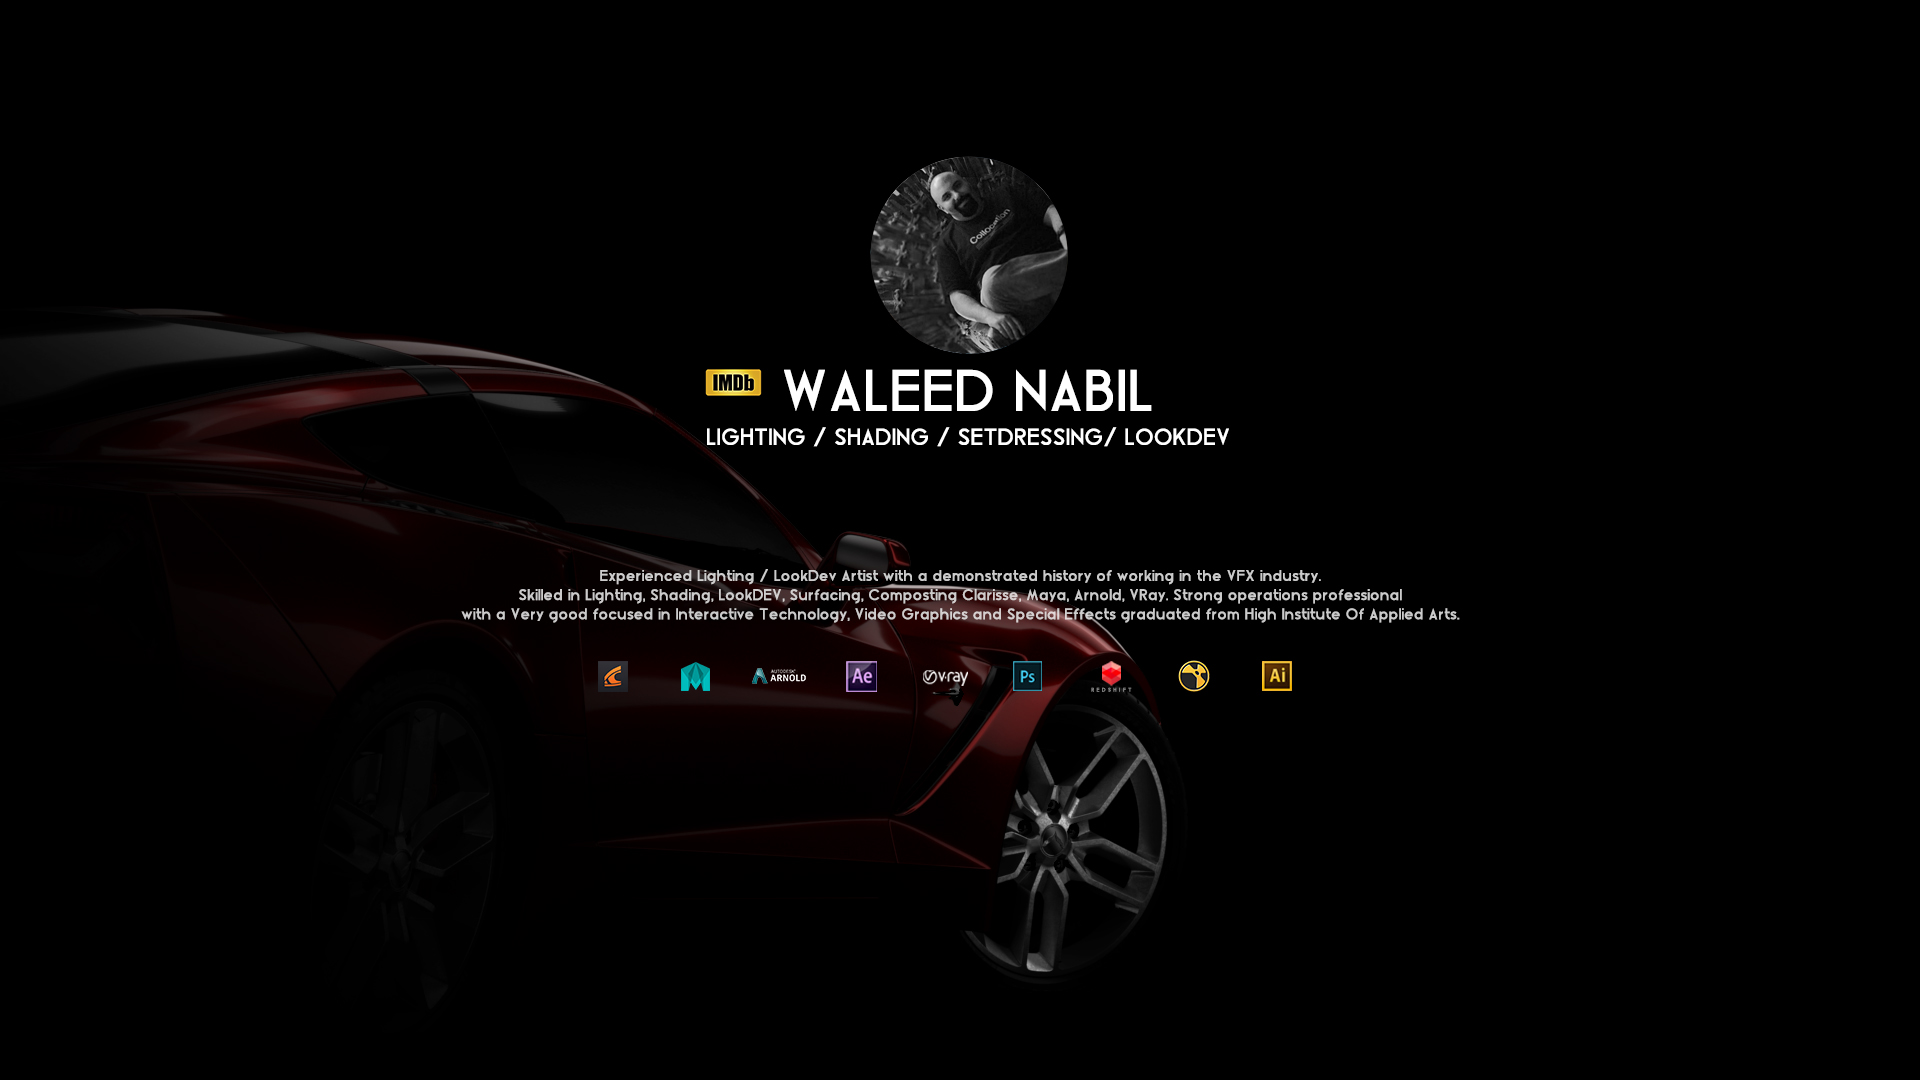
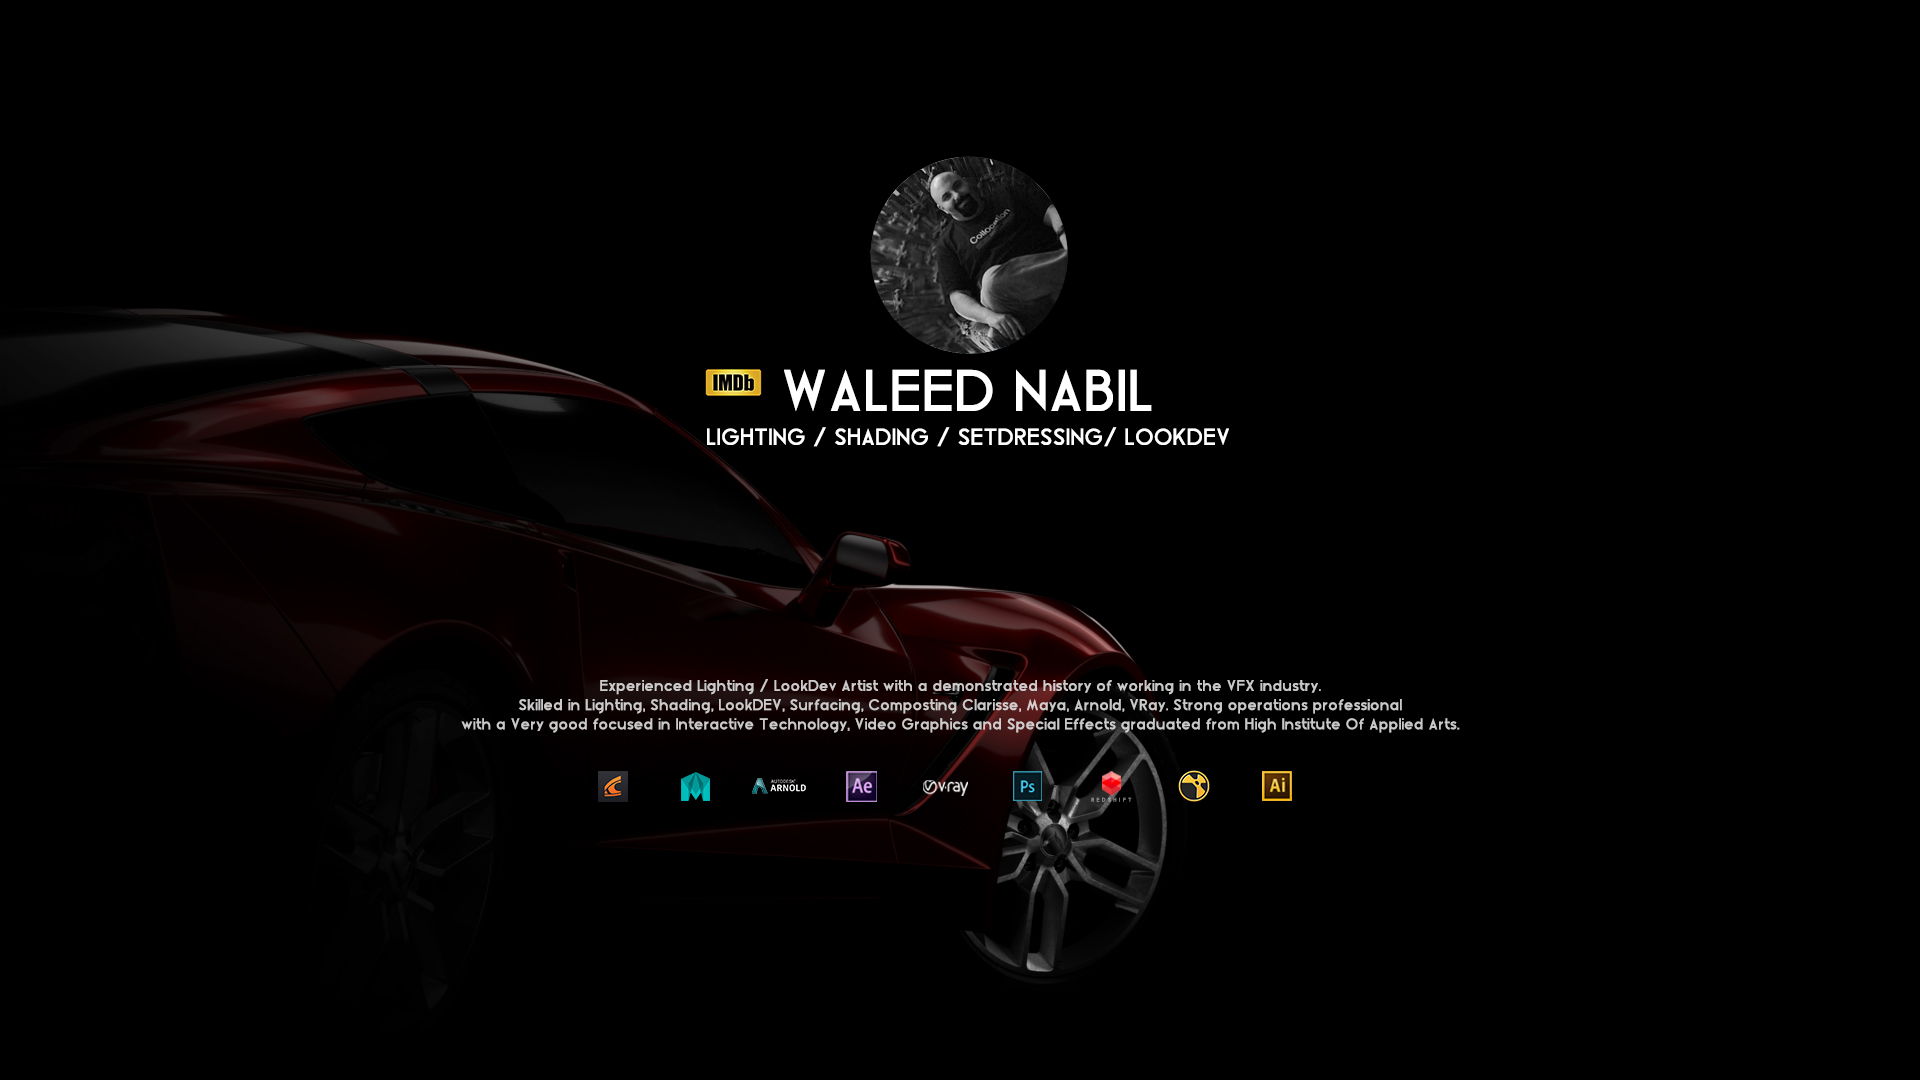
home btn

diff --git a/index.html b/index.html
@@ -241,8 +241,8 @@
                                 
 								<div class="tms-content">
 									<div class="tms-content-inner left left-on-mobile v-align-middle">
-										<div class="row">
-											<div class="column width-12">
+										<div class="row btn-place">
+											
 												
 												
                                                 <br>
@@ -251,19 +251,19 @@
                                                 <br>
                                                 <br>
                                                 <br>
-                                                <div id="btn-home">
+                                                
 												<div class="tms-caption"
 													 data-animate-in="preset:slideInUpShort;duration:1000ms;delay:400ms;"
 													 data-no-scale>
-														<a href="waleed_nabil_cv.pdf" class="tms-caption button medium text-small text-uppercase bkg-theme color-charcoal border-hover-white color-hover-white" data-offset="-80" target="_blank">DOWNLOAD RESUME</a>
+														<a href="waleed_nabil_cv.pdf" class="btn-home" data-offset="-80" target="_blank">DOWNLOAD RESUME</a>
 												</div>
 												<div class="tms-caption"
 													 data-animate-in="preset:slideInUpShort;duration:1000ms;delay:600ms;"
 													 data-no-scale>
-														<a href="Showreel.html" class="tms-caption button medium text-small text-uppercase bkg-theme color-charcoal border-hover-white color-hover-white" data-offset="-60">PLAY REEL</a>
+														<a href="Showreel.html" class="btn-home" data-offset="-60">PLAY REEL</a>
 												</div>
-                                                </div>
-											</div>
+                                                
+											
 										</div>
 									</div>
 								</div>

diff --git a/Aboutme.html b/Aboutme.html
@@ -225,8 +225,8 @@
                                                 -->
 												<div class="pull-left clear-float-on-mobile" >
                                                     
-													<a href="waleed_nabil_cv.pdf" class="button thick border-theme border-hover-theme color-theme color-hover-theme" target="_blank">Download Resume</a>
-													
+													<a href="waleed_nabil_cv.pdf" class="btn-about" target="_blank">Download Resume</a>
+												
 													<ul class="tms-caption social-list list-horizontal no-margin-left mb-40"
 														data-animate-in="preset:slideInUpShort;duration:1000ms;delay:400ms;">
 														<li><a href="https://www.imdb.com/name/nm8802074/" style="color:#f3ce13" target="_blank"><span class="iconify fa-2x" data-icon="cib:imdb" data-inline="false"></span></a>
@@ -245,7 +245,8 @@
                                                         <li><a href="https://www.linkedin.com/in/waleed-nabil-174713bb/" style="color:#0e76a8" target="_blank"><span class="iconify fa-2x" data-icon="cib:linkedin-in" data-inline="false"></span></a>
                                                         </li>
 													</ul>
-													<div class="clear"></div>
+                                                     
+													
 														
 												</div>
 											</div>

diff --git a/Showreel.html b/Showreel.html
@@ -246,14 +246,14 @@
 									<h1 class="title-xlarge no-padding-on-mobile text-uppercase lspacing-medium mb-10 weight-bold color-white">we make it happen</h1>
                                     -->
 									<div class="row">
-										<div class="column width-6 offset-3 weight-light">
+										<div class="column width-11 offset-3 weight-light">
 											<!--
                                             <p class="color-white text-large">We help you find the travel experience that you have always dreamed of and tailor it to your needs.</p>
 											-->
-                                            <a class="lightbox-link icon-circled icon-play medium border-white color-white color-hover-white bkg-hover-theme  text-line-vertical" data-lightbox-animation="fade" href="https://player.vimeo.com/video/375606604">
-
-                                            </a>
+                                            <iframe src="https://player.vimeo.com/video/375606604" allow="autoplay; fullscreen" allowfullscreen></iframe>
+                                                
 										</div>
+                                        <p>&copy; Waleed Nabil 2020.</p>
 									</div>
 								</div>
 							</div>

diff --git a/css/skin-resume.css b/css/skin-resume.css
@@ -240,6 +240,36 @@ a.animated-link:hover .text-line,
 	background-color: #27ccc0;
 }
 
+.btn-about{
+    transform: translate3d(0px, 0px, 0px) rotateX(0deg) rotateY(0deg) rotateZ(0deg) scale3d(1, 1, 1);
+    font-size: 10px;
+    line-height: 13px;  
+    white-space: nowrap;
+    transform-origin: 50% 50% 0px;
+    visibility: visible;
+    color: #fff;
+    border-width: 1px;
+    border-color: #fff;
+    padding: 10px 10px 10px 10px;
+    border-style: solid;
+    opacity: 40%;
+    padding-left:25px;
+    padding-right:20px;
+}
+
+.btn-about:hover {
+    border-color: transparent;
+    color: #fff;
+    opacity: 60%;
+}
+
+.btn-place-about {
+    margin-left: 40%;
+    margin-top:0%;
+}
+
+
+
 @media only screen and (max-width: 768px){
 	h1{
 		font-size: 4rem;

diff --git a/css/skin-barber-shop-one-page.css b/css/skin-barber-shop-one-page.css
@@ -875,6 +875,30 @@ body,
 /*------------------------------------------------------------------
 [7. Header Nav Icons, Buttons, Dropdowns ]
 */
+.btn-home {
+    transform: translate3d(0px, 0px, 0px) rotateX(0deg) rotateY(0deg) rotateZ(0deg) scale3d(1, 1, 1);
+    font-size: 10px;
+    line-height: 13px;  
+    white-space: nowrap;
+    transform-origin: 50% 50% 0px;
+    visibility: visible;
+    color: #fff;
+    border-width: 1px;
+    border-color: #fff;
+    padding: 10px 10px 10px 10px;
+    border-style: solid;
+    opacity: 30%;
+}
+
+.btn-home:hover {
+    border-color: transparent;
+    opacity: 60%;
+}
+.btn-place {
+    margin-left: 13.5%;
+}
+
+
 
 /* Padding & Margins */
 .header .dropdown-list{

diff --git a/css/skin-travel-agency.css b/css/skin-travel-agency.css
@@ -247,6 +247,13 @@ a.animated-link:hover .text-line,
 	background-color: #933ded;
 }
 
+
+iframe {
+    width:1280px;
+    height: 640px;
+    float: right;
+    }
+
 @media only screen and (max-width: 768px){
 	h1 {
 		font-size: 3.755rem;
@@ -398,8 +405,8 @@ body,
 	border-color: #933ded;
 }
 .bkg-hover-theme:hover{
-	background-color: #933ded;
-	border-color: #933ded;
+	background-color: transparent;
+	border-color: transparent;
 }
 .border-theme{
 	border-color: #933ded;
